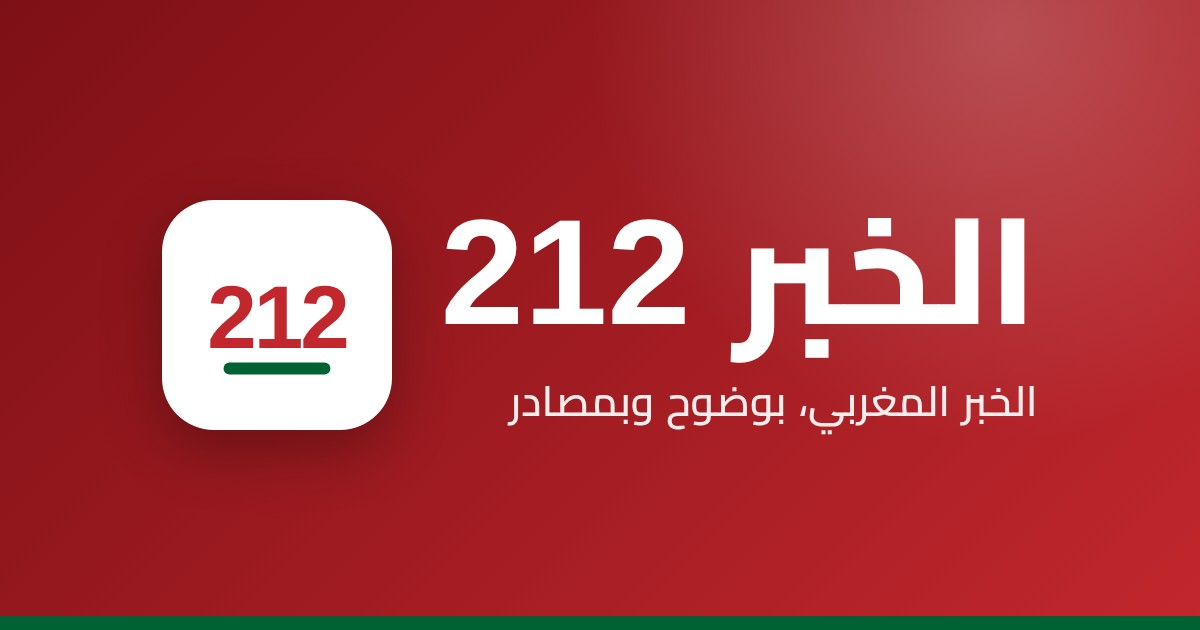
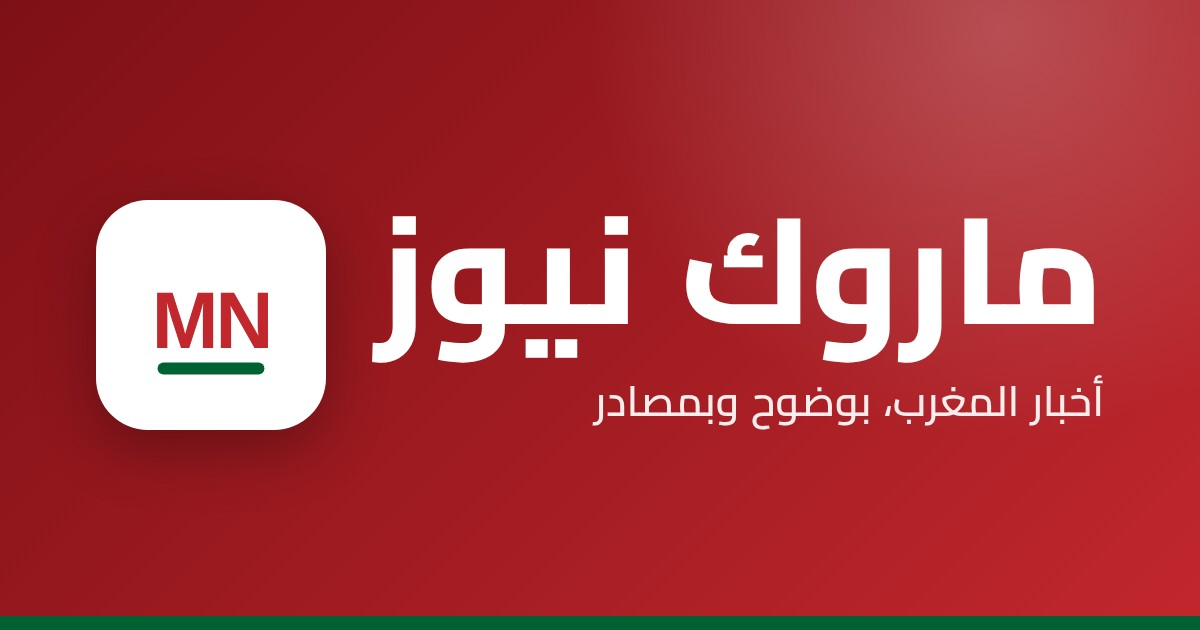
Rebrand site to Maroc News (ماروك نيوز)
New name, tagline, MN logo mark, favicon/app icons and default share image;
Instagram handle @marocnews.ma; bot user agents; docs point to marocnews.ma.

Claude-Session: https://claude.ai/code/session_01PydtsyPGYQednJB2uKZjfM

Changed region(s): [[0.0617, 0.3016, 0.925, 0.6937], [0.4008, 0.6032, 0.925, 0.6937]]

diff --git a/docs/CLOUDFLARE.md b/docs/CLOUDFLARE.md
@@ -4,7 +4,7 @@
 2. Build settings: framework **Astro**, build command `npm run build`, output directory `dist`.
 3. Environment variables (Production):
    - `NODE_VERSION` = `22`
-   - `SITE_URL` = `https://<project>.pages.dev` for the first test, then the real domain (e.g. `https://alkhabar212.com`)
+   - `SITE_URL` = `https://<project>.pages.dev` for the first test, then the real domain (e.g. `https://marocnews.ma`)
    - `SITE_BASE` = `/`
 4. Every push to `main` (including the daily publisher's push) rebuilds and deploys automatically.
 5. Custom domain: Pages project → **Custom domains → Set up a domain**. If the domain is bought at Cloudflare Registrar the DNS is automatic; otherwise point the registrar's nameservers to Cloudflare. Then change `SITE_URL` to the domain and redeploy.

diff --git a/src/content/posts/استئنافية-طنجة-مولينيكس-6-سنوات-حكم.md b/src/content/posts/استئنافية-طنجة-مولينيكس-6-سنوات-حكم.md
@@ -44,7 +44,7 @@ sources:
 
 ## لماذا الجلسات السرية؟
 
-قررت الهيئة إجراء الجلسة الأخيرة بصورة سرية «مراعاة لطبيعة الملف وحساسيته، لاسيما ارتباطه بقاصر»، وفق «اليوم 24». ولهذا السبب أيضا لا يذكر «الخبر 212» اسم الضحية.
+قررت الهيئة إجراء الجلسة الأخيرة بصورة سرية «مراعاة لطبيعة الملف وحساسيته، لاسيما ارتباطه بقاصر»، وفق «اليوم 24». ولهذا السبب أيضا لا يذكر «ماروك نيوز» اسم الضحية.
 
 ## تعريفات عامة… وليست من نص التقارير
 

diff --git a/src/content/posts/فرنسا-779-موقوفا-احتجاجات-غلاء-المعيشة-الموجة-الثالثة.md b/src/content/posts/فرنسا-779-موقوفا-احتجاجات-غلاء-المعيشة-الموجة-الثالثة.md
@@ -56,7 +56,7 @@ sources:
 
 ## سياق
 
-سبق لـ«الخبر 212» أن تابع موجة احتجاجات غلاء المعيشة في أوروبا يوم 25 أكتوبر، حين شهدت فرنسا وإيطاليا وبرشلونة مواجهات. وتُعدّ احتجاجات السبت الموجة الثالثة في فرنسا، حسب «الأول».
+سبق لـ«ماروك نيوز» أن تابع موجة احتجاجات غلاء المعيشة في أوروبا يوم 25 أكتوبر، حين شهدت فرنسا وإيطاليا وبرشلونة مواجهات. وتُعدّ احتجاجات السبت الموجة الثالثة في فرنسا، حسب «الأول».
 
 ## ماذا بعد؟
 

diff --git a/agent/ROUTINE.md b/agent/ROUTINE.md
@@ -1,4 +1,4 @@
-# Daily routine — publish 3 news articles for «الخبر 212»
+# Daily routine — publish 3 news articles for «ماروك نيوز»
 
 You run as a fresh Claude Code session, once a day. Goal: publish **exactly 3 new Arabic news articles** (fewer only if fewer than 3 valid stories exist), each with a truthful image, then push to `main` (GitHub Actions rebuilds and deploys the site). Work in `/home/user/BloggingAgent` (if absent, clone/attach `zaidbt/bloggingagent`). **Be lean**: no screenshots, never print whole feeds, view images only through the contact sheet.
 

diff --git a/README.md b/README.md
@@ -1,4 +1,4 @@
-# الخبر 212 — automated Arabic news blog
+# ماروك نيوز (Maroc News) — automated Arabic news blog
 
 An Arabic (RTL) Moroccan news site built with Astro, plus a daily AI agent. Free to run: GitHub Actions + GitHub Pages + Gemini free tier.
 
